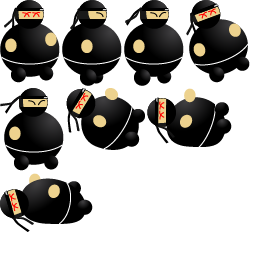
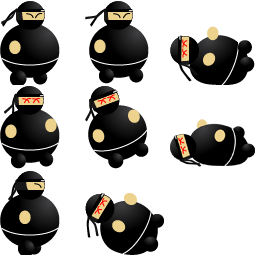
NinjaDieAnimation neu so dass er nicht zu hoch liegt WallBreakAimation

diff --git a/Fat Ninja/GameLayer.mm b/Fat Ninja/GameLayer.mm
@@ -67,7 +67,7 @@ double endSpeed;
         [self addChild:_enemyBatchNode];
         _sushiBatchNode =[CCSpriteBatchNode batchNodeWithFile:@"icon-sushi.png"];
         [self addChild:_sushiBatchNode];
-        _wallBatchNode =[CCSpriteBatchNode batchNodeWithFile:@"brokenwall.png"];
+        _wallBatchNode =[CCSpriteBatchNode batchNodeWithFile:@"brokenWall.png"];
         [self addChild:_wallBatchNode];
         _stoneBatchNode =[CCSpriteBatchNode batchNodeWithFile:@"stone.png"];
         [self addChild:_stoneBatchNode];
@@ -352,8 +352,9 @@ double endSpeed;
                         [sushiLabel setString:[NSString stringWithFormat:@"%i",sushiCounter]]; // anzeige anpassen
                         [enemyToDelete addObject:enemy];
                     }
-                    else if(enemy.isRollable and isRolling){
-                        [enemyToDelete addObject:enemy];
+                    else if(enemy.isRollable and isRolling and enemy.enemyState!= StateDie){
+                        [enemy changeState:StateDie];
+                        //[enemyToDelete addObject:enemy];
                     }
                     else if(enemy.isPowerUp){
                         //hier kommt das mit dem PowerUp rein
@@ -369,10 +370,9 @@ double endSpeed;
                         }
                         [[CCDirector sharedDirector] pushScene:[[MinigameScene alloc] initWith:type]];
                     }
-                    else{
+                    else if(!enemy.enemyState==StateDie){
                         [ninja die:self];
                         [self stopGame];
-                        
                     }
                 }
             }
@@ -429,6 +429,7 @@ double endSpeed;
             if (CGRectIntersectsRect(projectile.boundingBox, enemy.boundingBox)) {
                 if(enemy.isShootable){
                     [enemy changeState:StateDie];
+                    
                     if(enemy.isPowerUp||enemy.isEatable){
                         [enemyToDelete addObject:enemy];
                     }

diff --git a/Fat Ninja/WallOb.mm b/Fat Ninja/WallOb.mm
@@ -12,7 +12,11 @@
 
 -(id) initWith:(float)geschw andWinSize:(CGSize)wSize{
     if ((self = [super init])) {
-        self= [WallOb spriteWithFile:@"brokenwall.png"];
+        //self= [WallOb spriteWithFile:@"brokenwall.png"];
+        
+        [[CCSpriteFrameCache sharedSpriteFrameCache] addSpriteFramesWithFile: (@"brokenWall.plist")];
+        self = [WallOb spriteWithSpriteFrameName: @"brokenWall1.png"];
+        
         isRollable=true;
         isShootable=false;
         geschwindigkeit=geschw;
@@ -29,7 +33,18 @@
     
     switch (newState) {
         case StateDie:
-            //sterbe animation  am ende muss gegner gelöscht werden
+            
+            NSLog(@"Break");
+            [self runAction: self.breakAction];
+            
+            [self runAction:
+             [CCSequence actions:
+              [CCFadeTo actionWithDuration:0.5f opacity:0],
+              [CCCallBlockN actionWithBlock:^(CCNode *node) {
+                 
+                 [(GameLayer *)[[self parent] parent] removeObstacle: self];
+                 
+             }], nil]];
             break;
             
         default:
@@ -50,6 +65,20 @@
     }];
     CCSequence *sequence=[CCSequence actionOne:actionMove two:actionMoveDone];
     [self runAction:sequence];
+    
+    
+    
+    //load each frame included in the sprite sheet into an array for use with the CCAnimation object below
+    NSMutableArray *breakAnimFrames = [NSMutableArray array];
+    for(int i = 1; i <= 7; ++i) {
+        [breakAnimFrames addObject:
+         [[CCSpriteFrameCache sharedSpriteFrameCache] spriteFrameByName:
+          [NSString stringWithFormat:@"brokenWall%d.png", i]]];
+    }
+    CCAnimation *breakAnim = [CCAnimation animationWithSpriteFrames:breakAnimFrames delay:0.05f];
+    self.breakAction =[CCAnimate actionWithAnimation:breakAnim];
+    
+    
     
 }
 @end

diff --git a/Fat Ninja/Skeleton.mm b/Fat Ninja/Skeleton.mm
@@ -65,10 +65,7 @@
         CCSequence *sequence=[CCSequence actionOne:actionMove two:actionMoveDone];
         [self runAction:sequence];
 
-    
-    
-    [[CCSpriteFrameCache sharedSpriteFrameCache] addSpriteFramesWithFile: (@"skeletonDying.plist")];
-     
+         
     //load each frame included in the sprite sheet into an array for use with the CCAnimation object below
     NSMutableArray *dieAnimFrames = [NSMutableArray array];
     for(int i = 1; i <= 8; ++i) {
@@ -76,14 +73,10 @@
          [[CCSpriteFrameCache sharedSpriteFrameCache] spriteFrameByName:
           [NSString stringWithFormat:@"skeletonDying0%d.png", i]]];
     }
-    CCAnimation *dieAnim = [CCAnimation animationWithSpriteFrames:dieAnimFrames delay:0.1f];
-    self.dieAction = [CCRepeatForever actionWithAction:
-                       [CCAnimate actionWithAnimation:dieAnim]];
-
-    
-   // self = [Skeleton spriteWithSpriteFrameName: @"skeletonDying01.png"];
-        self.scale = (wiSize.height / 400) ;
   
+    
+    CCAnimation *dieAnim = [CCAnimation animationWithSpriteFrames:dieAnimFrames delay:0.1f];
+    self.dieAction =    [CCAnimate actionWithAnimation:dieAnim];
 
 
 }

diff --git a/Fat Ninja/Ninja.mm b/Fat Ninja/Ninja.mm
@@ -269,6 +269,8 @@ b2Body *bodyNinja;
         [_ninjaDie runAction:
          [CCSequence actions:
           [CCFadeTo actionWithDuration:3 opacity:0],
+
+
           [CCCallBlockN actionWithBlock:^(CCNode *node) {
              
              [gameLayer endGame];
@@ -468,7 +470,7 @@ b2Body *bodyNinja;
           [NSString stringWithFormat:@"NinjaDie%d.png", i]]];
     }
     
-    CCAnimation *dieAnim = [CCAnimation animationWithSpriteFrames:dieAnimFrames delay:0.08f];
+    CCAnimation *dieAnim = [CCAnimation animationWithSpriteFrames:dieAnimFrames delay:0.1f];
     _ninjaDie = [CCPhysicsSprite spriteWithSpriteFrameName:@"NinjaDie1.png"];
     
     self.dieAction =  [CCAnimate actionWithAnimation:dieAnim];

diff --git a/Fat Ninja/Skeleton.h b/Fat Ninja/Skeleton.h
@@ -9,12 +9,9 @@
 #import "ObstacleObject.h"
 
 @interface Skeleton : ObstacleObject{
-        CCAction *_dieAction;
-    CCSpriteBatchNode *_spriteSheetDying;
-    
+        CCAction *_dieAction;    
 }
 @property (nonatomic, retain)CCAction *dieAction;
-@property (nonatomic, retain)CCPhysicsSprite *skeletonDie;
-@property (nonatomic, retain)CCSpriteBatchNode *spriteSheetDying;
+
 
 @end

diff --git a/Fat Ninja/WallOb.h b/Fat Ninja/WallOb.h
@@ -8,6 +8,10 @@
 
 #import "ObstacleObject.h"
 
-@interface WallOb : ObstacleObject
+@interface WallOb : ObstacleObject{
+    CCAction *_breakAction;
+}
+@property (nonatomic, retain)CCAction *breakAction;
+
 
 @end
